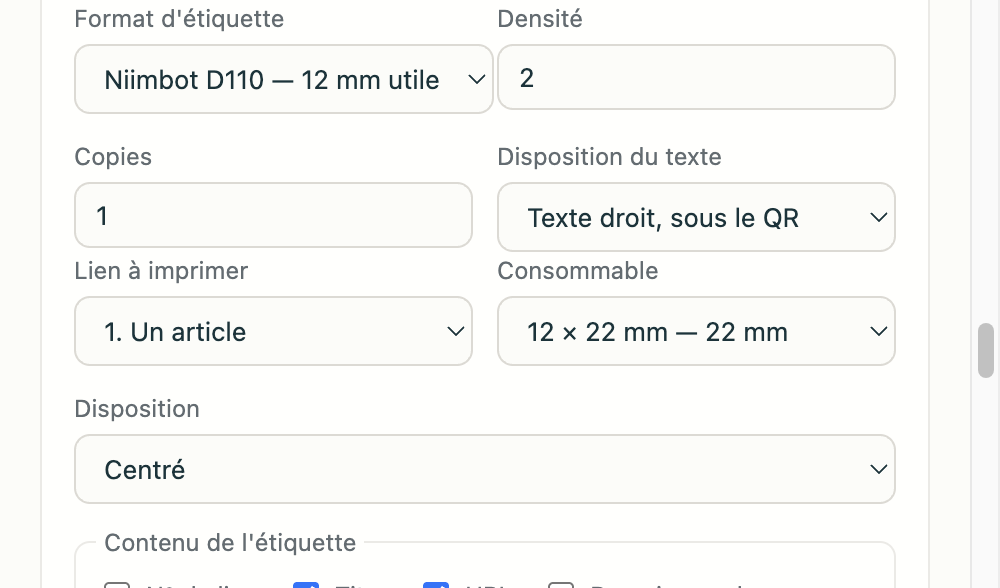
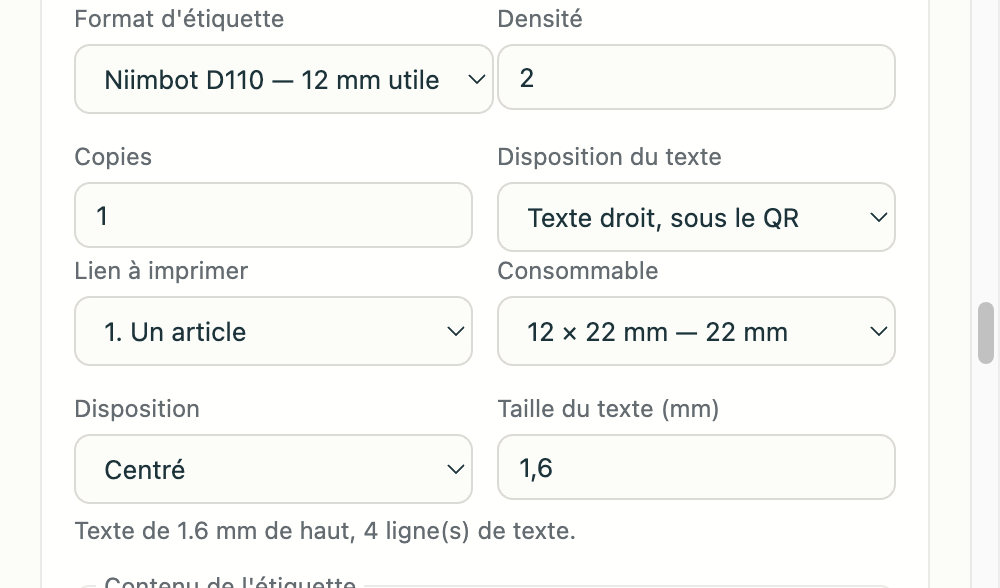
Rend la date imprimable et corrige les marges du texte tourne
La case « Date de collecte » de l'etiquette etait sans effet : la date etait
abandonnee sans explication, parce qu'elle ne tenait pas a la taille de police
par defaut. La police est desormais reduite juste assez pour qu'elle entre, dans
la limite du plancher de lisibilite.

« Date et heure » exigeait 1,1 mm de haut sur une tete de 12 mm, sous le
plancher : elle est refusee et l'apercu le dit, plutot que d'imprimer illisible.
Une date qu'on ne peut pas lire ne vaut pas mieux que pas de date.

En disposition tournee, la bande de texte descendait dans la marge basse : le
texte est dessine depuis le bas de sa bande, et la bande etait placee juste sous
le QR. Elle est maintenant alignee sur la marge basse.

Verifie par une matrice de 252 combinaisons dans Brave — quatre consommables,
trois liens, sept contenus, trois dispositions — qui mesure les marges reelles
et l'encre deposee. Aucune anomalie.

512 tests verts.

diff --git a/src/web/app.js b/src/web/app.js
@@ -30,6 +30,7 @@ import {
   layoutLabelLateral,
   layoutLabelRotated,
   wrapDate,
+  fontSizeForDate,
   pxToMm,
   LABEL_ALIGNMENTS,
   DEFAULT_LABEL_ALIGNMENT,
@@ -1742,7 +1743,8 @@ function renderSingleLabel(link) {
   // Le profil vient de l'imprimante quand il y en a une, sinon du format
   // choisi : on doit pouvoir juger un rendu avant d'acheter le matériel.
   const profile = previewProfile();
-  const { geometry, content, verdict, dateOmitted, lateralRefused } = composeLabel(link, profile);
+  const { geometry, content, verdict, dateOmitted, dateTropPetite, lateralRefused } =
+    composeLabel(link, profile);
 
   const frame = document.createElement('div');
   frame.className = 'preview__page';
@@ -1788,7 +1790,9 @@ function renderSingleLabel(link) {
   caption.className = 'hint';
   // `composeLabel` sait si la date a été écartée : on le dit, plutôt que de
   // laisser croire que l'option n'a pas d'effet.
-  const dateNote = dateOmitted ? composeDateNote() : '';
+  const dateNote = dateTropPetite
+    ? ' — date non imprimée : elle exigerait un texte trop petit pour être lu.'
+    : (dateOmitted ? composeDateNote() : '');
   // La taille réellement retenue peut différer de celle demandée : la géométrie
   // réduit plutôt que de tronquer. On le dit, sinon le réglage semble sans effet.
   const tailleObtenue = pxToMm(geometry.fontSize, profile.dpi).toFixed(1);
@@ -1863,14 +1867,27 @@ function composeLabel(link, profile) {
   // QR code » des planches rendait la case sans effet tant qu'on n'y touchait
   // pas, ce qui se lisait comme un défaut.
   const wantsDate = el.labelShowDate.checked;
-  const dateLines = wantsDate && wanted !== ''
-    ? wrapDate(
-      cachedTextMeasure(probe.fontSize),
-      wanted,
-      probe.width - probe.padding * 2,
-      DATE_LINES_MAX,
-    )
+  const largeurDate = probe.width - probe.padding * 2;
+
+  // La date est écrite d'un bloc ou pas du tout : à la taille de police par
+  // défaut, elle ne tenait pas sur une tête de 12 mm et disparaissait sans
+  // explication. On réduit donc la police du texte juste assez pour qu'elle
+  // entre — la date est une information courte, mieux vaut un texte un peu
+  // plus petit que pas de date du tout.
+  const plancherDate = Math.max(
+    MIN_FONT_PX,
+    Math.round((MIN_TEXT_MM / 25.4) * profile.dpi),
+  );
+  const tailleDate = wantsDate && wanted !== ''
+    ? fontSizeForDate(cachedTextMeasure, wanted, largeurDate, plancherDate)
+    : 0;
+  const dateLines = tailleDate > 0
+    ? wrapDate(cachedTextMeasure(tailleDate), wanted, largeurDate, DATE_LINES_MAX)
     : [];
+  // Une date qui exige une police sous le plancher de lisibilité n'est pas
+  // imprimée : « 15/09/2026 21:07 » demandait 1,1 mm sur une tête de 12 mm.
+  // Mieux vaut pas de date qu'une date illisible, et on le dit.
+  const dateTropPetite = wantsDate && wanted !== '' && tailleDate === 0;
 
   // Le titre se découpe à la largeur utile, comme l'URL : réservé sur une seule
   // ligne puis écrit sans découpe, un titre long débordait de l'étiquette.
@@ -1903,7 +1920,10 @@ function composeLabel(link, profile) {
     extraLines: content.extraLines,
     maxHeightPx: lengthPx,
     alignment,
-    fontSize,
+    // La date impose sa taille : elle est écrite d'un bloc, sans découpage.
+    fontSize: tailleDate > 0 && fontSize !== undefined
+      ? Math.min(fontSize, tailleDate)
+      : (tailleDate > 0 ? tailleDate : fontSize),
     measureFactory: cachedTextMeasure,
     // « Texte au-dessus » se décide à la composition : le texte précède le QR.
     textFirst: labelLayout().textFirst === true,
@@ -1940,6 +1960,7 @@ function composeLabel(link, profile) {
     verdict: checkQrLegibility(geometry),
     dateLines,
     dateOmitted: wantsDate && wanted !== '' && dateLines.length === 0,
+    dateTropPetite,
     lateralRefused,
   };
 }
@@ -2462,6 +2483,12 @@ async function printOneLabel() {
  * bilan final dit combien sont sorties. Sur trente étiquettes, s'arrêter à la
  * troisième parce que la quatrième a raté serait pénible.
  */
+/** Hauteur de texte minimale, en millimètres : c'est la lisibilité. */
+const MIN_TEXT_MM = 1.6;
+
+/** Plancher de lisibilité du texte, en pixels : 1,6 mm à 203 dpi. */
+const MIN_FONT_PX = 6;
+
 /** Nombre de lignes qu'une date peut occuper sous le QR, une fois découpée. */
 const DATE_LINES_MAX = 2;
 

diff --git a/src/core/label.js b/src/core/label.js
@@ -699,8 +699,12 @@ export function layoutLabelRotated(geometry, options) {
   // la hauteur qui reste sous le QR, marge basse déduite.
   const afterQr = padding + geometry.qrSize + gap;
   const fixed = geometry.targetHeight > 0;
+  // La bande part du bas du QR et s'arrête à la marge basse. Le texte monte
+  // depuis son extrémité basse : si la bande descendait jusque dans la marge,
+  // le texte s'y écrivait et touchait le bord de l'étiquette.
+  const bottom = Math.max(afterQr, geometry.targetHeight - padding);
   const available = fixed
-    ? Math.max(geometry.width, geometry.targetHeight - afterQr - padding)
+    ? Math.max(geometry.width, bottom - afterQr)
     // Sans longueur imposée, on part de la longueur du contenu : l'étiquette
     // s'ajuste au texte au lieu de réserver une bande vide.
     : Math.max(geometry.width, Math.ceil(options.measure(options.text ?? '')));
@@ -734,13 +738,20 @@ export function layoutLabelRotated(geometry, options) {
   const lines = placed.lines;
   const thickness = placed.thickness;
 
+  // Le texte est dessiné depuis le **bas** de sa bande, en remontant : c'est
+  // donc `textTop + textWidth` qui doit tomber sur la marge basse. Placer la
+  // bande juste après le QR la faisait descendre dans la marge.
+  const bandTop = fixed
+    ? geometry.targetHeight - padding - available
+    : afterQr;
+
   return {
     ...geometry,
-    height: fixed ? geometry.targetHeight : afterQr + available + padding,
+    height: fixed ? geometry.targetHeight : afterQr + available + padding * 2,
     qrLeft: Math.floor((geometry.width - geometry.qrSize) / 2),
     qrTop: padding,
     textRotated: true,
-    textTop: afterQr,
+    textTop: bandTop,
     // La bande tournée fait `thickness` de large : on la centre.
     textLeft: Math.max(0, Math.floor((geometry.width - thickness) / 2)),
     textWidth: available,
